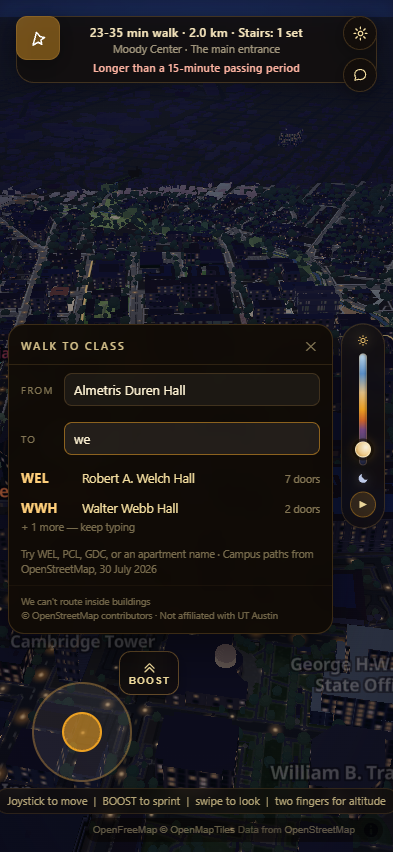
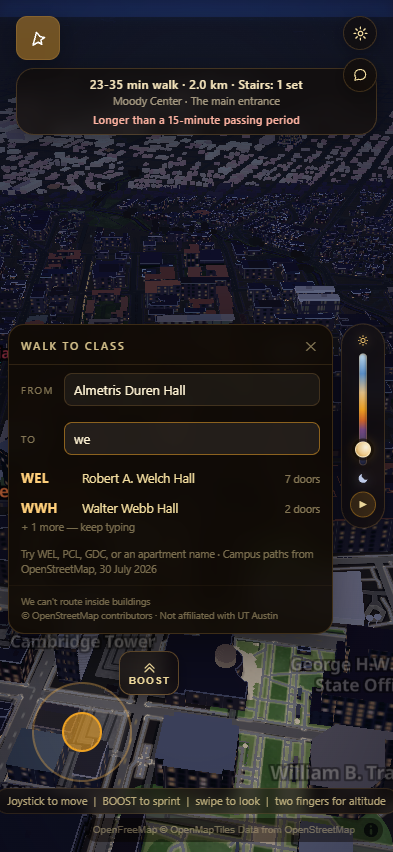
The phone answer bar drops below the buttons: the 52 px gutters had put the headline back on two lines
The merged-tree gate caught it. Reserving gutters so the words clear
#wf-button and #gfx-button/#fb-button left 257 px of text, which is not
enough for '6-8 min walk - 530 m - No stairs on this route' - the exact
two-line defect Z7 exists to fix. The bar now takes the row below the
buttons and gets the whole 361 px. Re-driven on the four longest real
headlines: 13/13, one line each, zero overlap with any button or with the
open sheet. Phone frames re-shot day and night.

diff --git a/style.css b/style.css
@@ -803,14 +803,18 @@ body.wf-routed.flying #wf-pill{opacity:1}
      translate gives the whole width, and the pill is centred because its two
      margins are equal, not because it was pushed.
 
-     The bar now runs the full width and the three 44 px buttons sit ON it
-     (#wf-button top-left, #gfx-button and #fb-button top-right), which reads
-     as one control bar and is the right answer for a phone. But the TEXT must
-     not run under them, and at 361 px it came within 10 px of the gear. So the
-     gutters are padding, not width: the box stays wide, the words stay
-     between the buttons. 44 px of button + 8 px of air = 52. */
-  #wf-pill{--wf-pill-inset:16px;--wf-pill-gutter:52px;
-    left:var(--wf-pill-inset);right:var(--wf-pill-inset);
-    transform:none;max-width:none;padding:7px var(--wf-pill-gutter)}
+     AND IT DROPS BELOW THE BUTTONS, which is the other half of the same fix
+     and was measured rather than guessed. The first attempt kept the bar in
+     the title's row and reserved 52 px gutters so the words could not run
+     under #wf-button (16..60) or #gfx-button/#fb-button (343..377) — and that
+     put the headline straight back onto two lines, which is the defect Z7 is
+     about. There is not enough width in that row for both, and a full-width
+     bar with three buttons sitting on it is one bad frame away from a
+     collision. So the answer takes the row BELOW them: 16 px inset + 44 px of
+     button + 8 px of air = 68, and it gets the whole 361 px with no gutters.
+     `body.wf-routed` already hides #hud, so nothing else wants that row. */
+  #wf-pill{--wf-pill-inset:16px;--wf-pill-top:68px;
+    top:var(--wf-pill-top);left:var(--wf-pill-inset);right:var(--wf-pill-inset);
+    transform:none;max-width:none;padding:7px 15px}
   #wf-headline{font-size:12px}
 }

diff --git a/HANDOFF.md b/HANDOFF.md
@@ -16900,10 +16900,19 @@ because it is a licence condition and not chrome**.
 available width was `100% - 50%` = 196.5 px on a 393 px screen and the
 `max-width` sitting in the phone block **never once bound**. Both edges pinned,
 translate dropped: **361 px, headline on one line** (was two, with `Show route`
-wrapping inside its own button). The three 44 px buttons now sit ON the bar,
-which reads as one control bar and is right for a phone — so the text gets
-52 px gutters and stays between them (measured 69..324 against buttons at
-16..60 and 343..377).
+wrapping inside its own button).
+
+The first attempt kept the bar in the title's row with the three 44 px buttons
+sitting on it, and reserved 52 px gutters so the words could not run under
+them. **Re-running the gate on the merged tree caught that putting the headline
+straight back onto two lines** — 257 px of usable text is not enough, so the
+fix had reintroduced the exact defect Z7 is about. The bar now takes the row
+BELOW the buttons (`--wf-pill-top` 68 = 16 inset + 44 button + 8 air) and gets
+the whole 361 px with no gutters. `body.wf-routed` already hides `#hud`, so
+nothing else wants that row. Re-driven on the four longest real headlines
+(JES>WEL, ADH>MCA, STD>MAI, Pointe on Rio>EER): **13/13, every one on one line,
+every one 361 px, zero overlap with `#wf-button`, `#gfx-button`, `#fb-button`
+or the open sheet.**
 
 **Z8.** The open sheet covered the joystick: sheet y324-852, stick y682-782,
 BOOST reaching y650. `interface.md` says hide the joystick while searching;
@@ -16989,11 +16998,13 @@ each.
 ### The gates
 
 `harness-drift.mjs` **PASS 29/29** before any pixel, on the served tree.
-**44 of 45 behaviour assertions green**; the one red is the assertion's fault
-and not the code's — it put a 25 s deadline on the `intro=0` fit, and the
-diagnostic it printed on failure shows the fit had happened correctly (pitch
-55, centred on the route). No latency claim survives a machine this loaded, so
-that gate now asserts the outcome and prints the time as information.
+**45 of 45 behaviour assertions green on the merged tree**, plus 13/13 on the
+phone re-check. Two reds along the way, and both were worth having: one was the
+assertion's own fault (a 25 s deadline on the `intro=0` fit — the diagnostic it
+printed shows the fit had happened correctly at pitch 55 centred on the route;
+no latency claim survives a machine this loaded, so it now asserts the outcome
+and prints the time as information), and **one was a real regression the merged
+re-run caught in my own Z7 fix**, written up above.
 Zero wayfind MAP ERRORs on every load. Every text node under `#wf-root`
 re-scanned against §12's forbidden list: clean, the single accessibility
 mention being §11's own mandated disclaimer verbatim.
